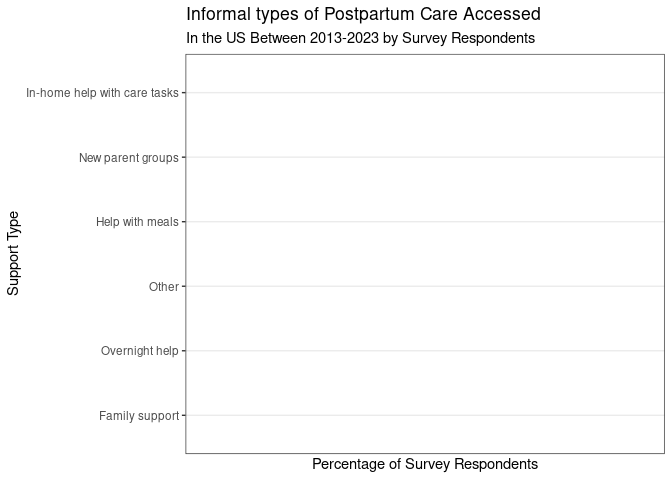
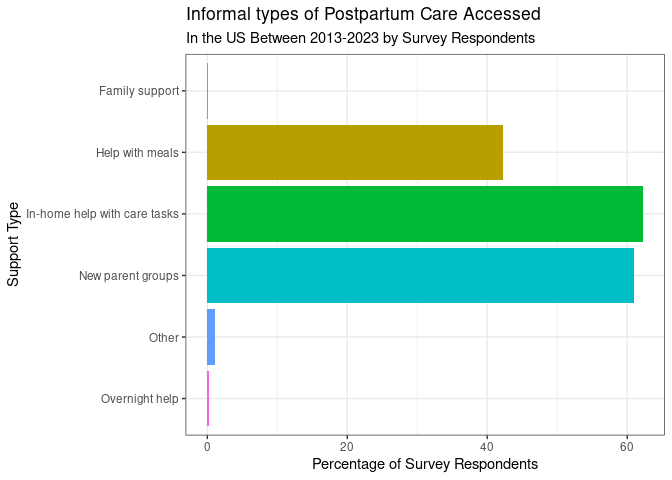
Add percentage calc to bar chart

diff --git a/memo/memo.md b/memo/memo.md
@@ -502,7 +502,7 @@ Postpartum |>
 
 ``` r
 Postpartum |>
-  filter(!is.na(support_type)) |>
+  drop_na(support_type) |>
   filter(support_type != "Lactation support",
          support_type != "Hospital/office follow up appointments",
          support_type != "Emotional support",
@@ -511,10 +511,11 @@ Postpartum |>
          support_type != "In-home follow up appointments",
          support_type != "Acupuncture",
          support_type != "None of the above") |>
-  #count(respondent) +
-  #mutate(percentage = n / sum(n) *100) |>
-  ggplot(mapping = aes(x = fct_rev(fct_infreq(support_type)), fill = support_type)) +
- # geom_bar(stat = "identity") +
+  select(respondent, support_type) |>
+  count(support_type) |>
+  mutate(percentage = n / 784 *100) |>
+ggplot(mapping = aes(x = fct_rev(fct_infreq(support_type)), y = percentage, fill = support_type)) +
+  geom_col() +
   theme_bw() +
   theme(legend.position = 'none') + 
   coord_flip() +
@@ -527,6 +528,10 @@ Postpartum |>
 ```
 
 ![](memo_files/figure-gfm/informal-care-type-bar-chart-1.png)<!-- -->
+
+``` r
+# Knowing the number of total respondents (in the US) made it easier to calculate percentage based on this set number.
+```
 
 ### Plot 2: Leaflet map
 
